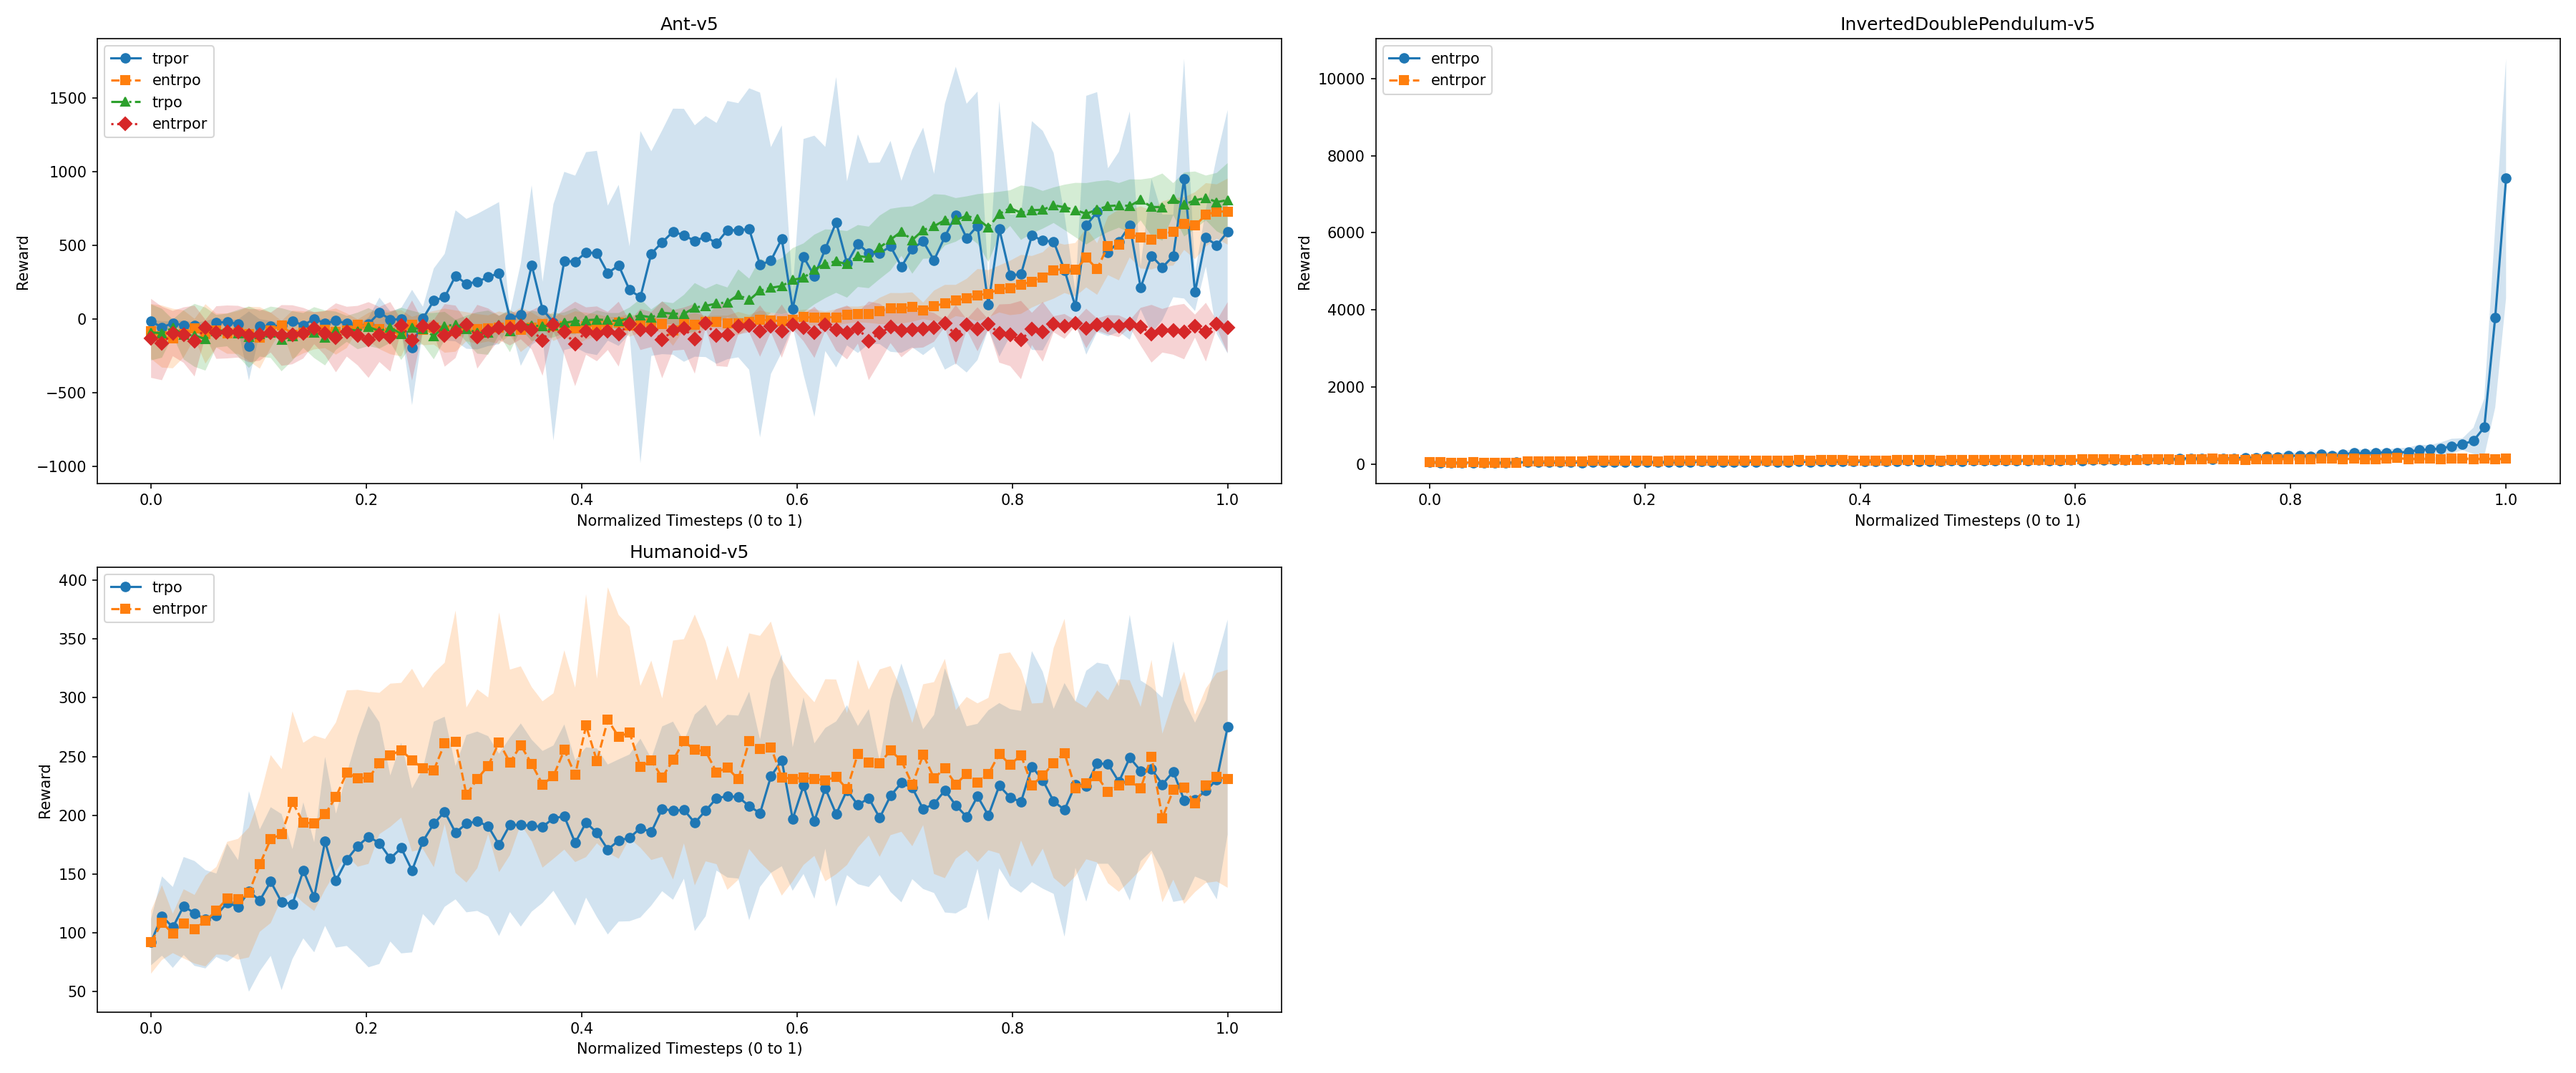
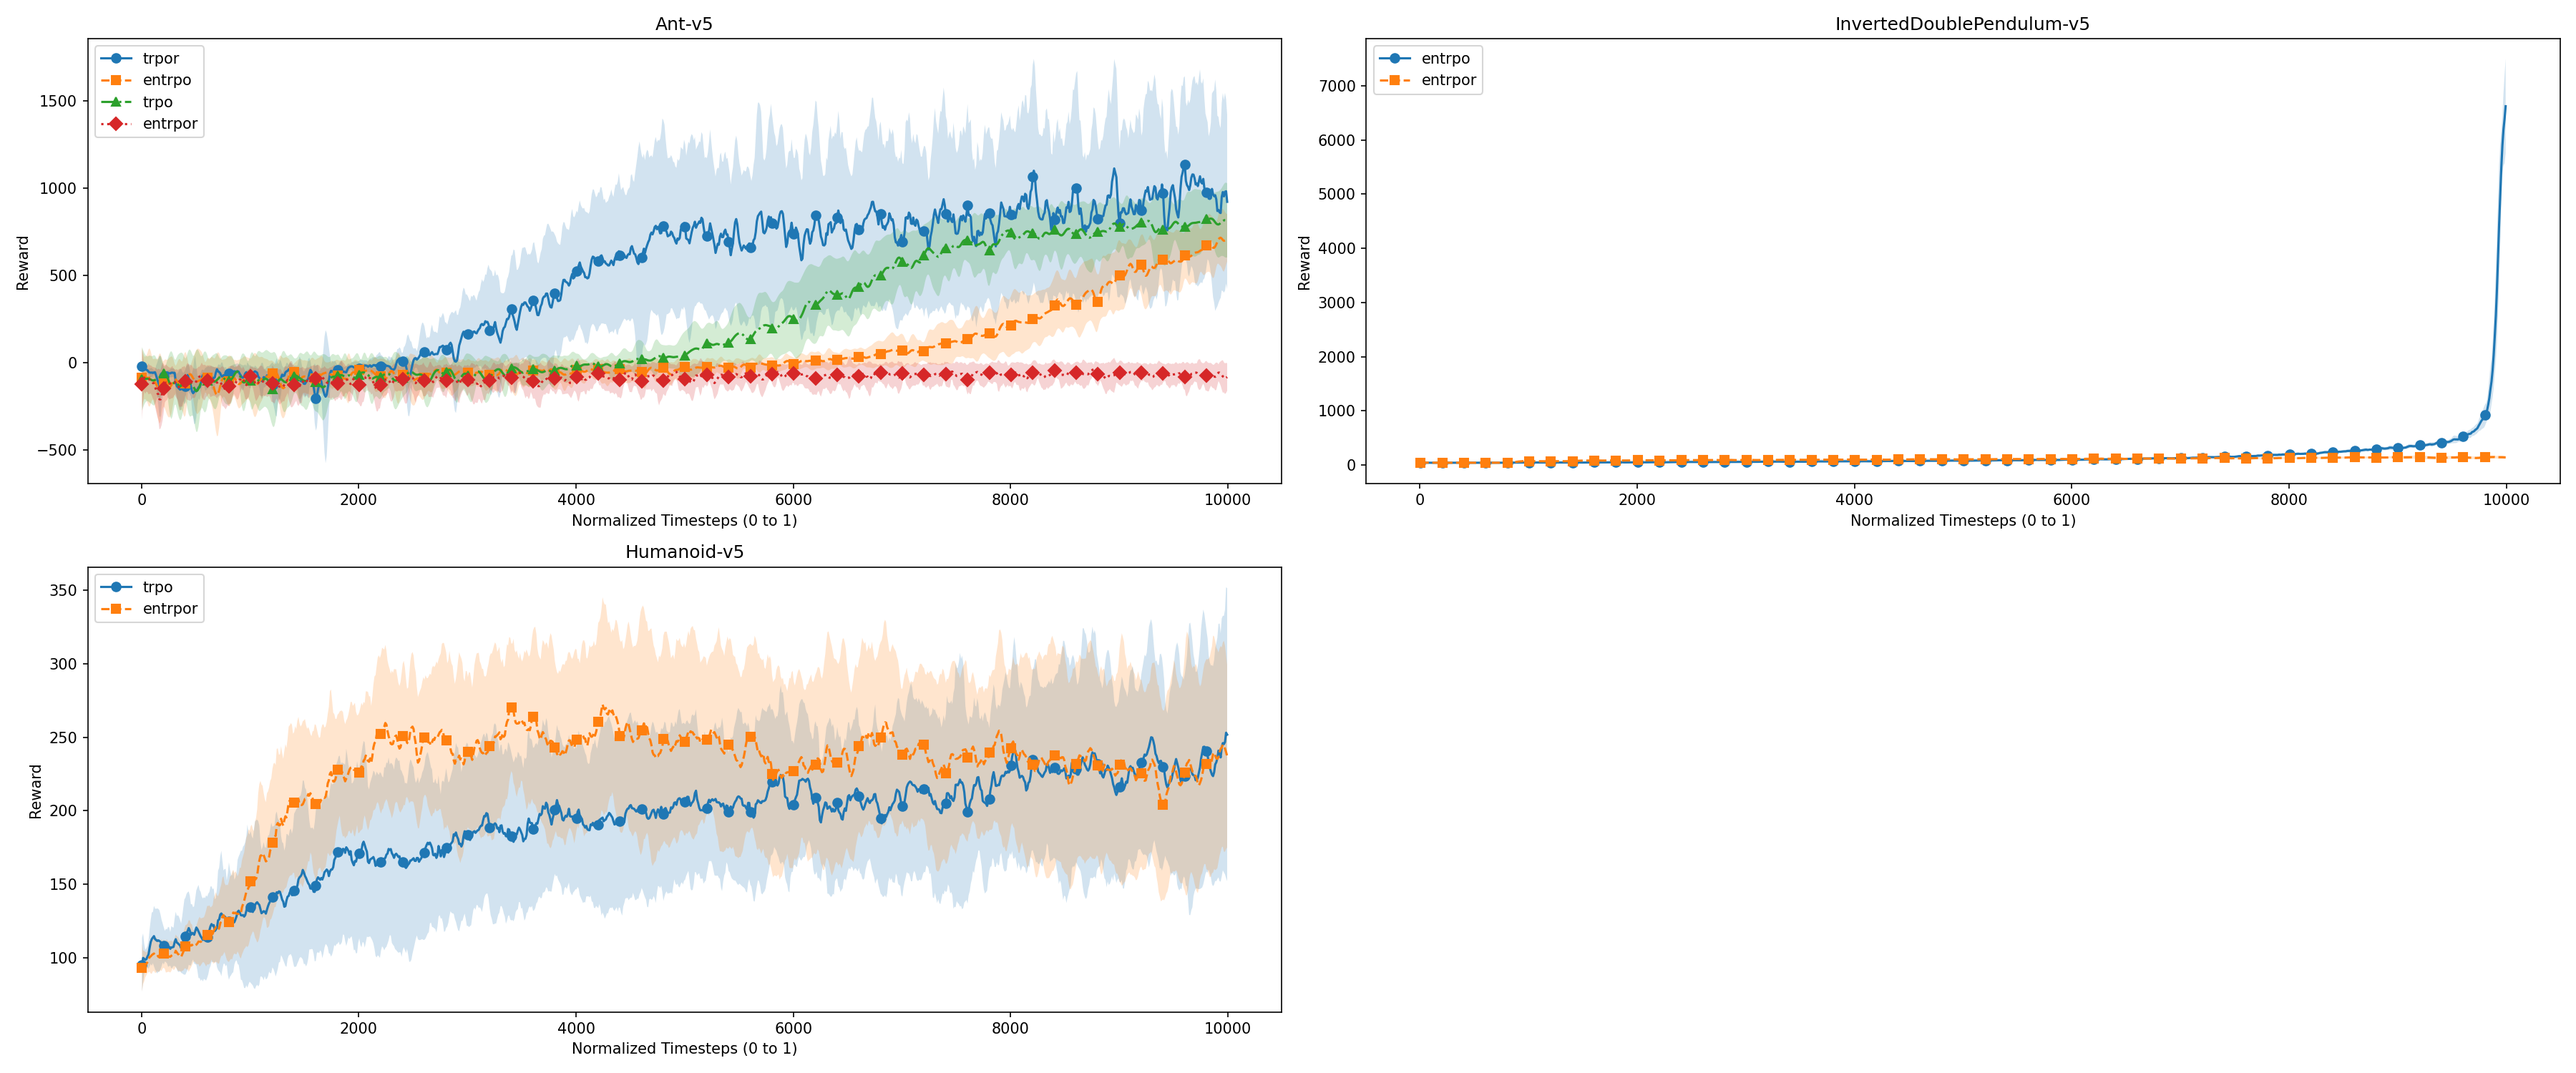
add downsampling and market ffreq

diff --git a/zoo/train_eval_plot.py b/zoo/train_eval_plot.py
@@ -136,13 +136,13 @@ def plot_from_path(env_path, results_dir, filter_envs=None):
   plot_rewards_from_grouped_paths(grouped, results_dir)
 
 
-def resample_to_fixed_points(dataframe, num_points):
-  new_timesteps = np.linspace(dataframe.index.min(), dataframe.index.max(), num=num_points)
-  interpolated_rewards = np.interp(new_timesteps, dataframe.index, dataframe.values)
-  return pd.DataFrame({"Timesteps": new_timesteps, "Reward": interpolated_rewards})
+def resample_to_fixed_points(run_data, num_points, common_timesteps):
+  normalized_timesteps = (run_data.index - run_data.index.min()) / (run_data.index.max() - run_data.index.min())
+  interpolated_rewards = np.interp(common_timesteps, normalized_timesteps, run_data["Reward"])
+  return pd.DataFrame({"Timesteps": common_timesteps, "Reward": interpolated_rewards})
 
 
-def plot_rewards_from_grouped_paths(grouped, results_dir, num_points=100):
+def plot_rewards_from_grouped_paths(grouped, results_dir, num_points=10000):
   os.makedirs(results_dir, exist_ok=True)
 
   n_envs = len(grouped)
@@ -153,10 +153,12 @@ def plot_rewards_from_grouped_paths(grouped, results_dir, num_points=100):
   # Define patterns and markers for accessibility
   line_styles = ["-", "--", "-.", ":"]
   markers = ["o", "s", "^", "D"]
+  max_points = 1000
+  marker_interval = max(1, max_points // 50)  # Ensure no more than 100 markers per line
 
   for ax, (env, paths) in zip(axes, grouped.items()):
     model_aggregated = {}
-    common_timesteps = np.linspace(0, 1, num=num_points)  # Shared resampling scale
+    common_timesteps = np.linspace(0, 1, num=num_points)
 
     for file_path in paths:
       if os.path.exists(file_path):
@@ -164,14 +166,16 @@ def plot_rewards_from_grouped_paths(grouped, results_dir, num_points=100):
         run_data = pd.read_csv(file_path)
         run_data.set_index("Timesteps", inplace=True)
 
-        # Normalize timesteps to [0, 1] and resample
-        normalized_timesteps = (run_data.index - run_data.index.min()) / (run_data.index.max() - run_data.index.min())
-        interpolated_rewards = np.interp(common_timesteps, normalized_timesteps, run_data["Reward"])
-        resampled_data = pd.DataFrame({"Timesteps": common_timesteps, "Reward": interpolated_rewards})
+        resampled_data = resample_to_fixed_points(run_data, num_points, common_timesteps)
+
+        # Downsample the resampled data
+        downsampled_timesteps, downsampled_rewards = downsample_data_with_smoothing(
+          resampled_data.index, resampled_data["Reward"], max_points=1000, window_size=50
+        )
 
         if model not in model_aggregated:
           model_aggregated[model] = []
-        model_aggregated[model].append(resampled_data["Reward"])
+        model_aggregated[model].append(pd.Series(downsampled_rewards, index=downsampled_timesteps))
 
     for idx, (model, rewards_list) in enumerate(model_aggregated.items()):
       if rewards_list:
@@ -184,18 +188,19 @@ def plot_rewards_from_grouped_paths(grouped, results_dir, num_points=100):
         marker = markers[idx % len(markers)]
 
         ax.fill_between(
-          common_timesteps,
+          mean_rewards.index,
           mean_rewards - std_rewards,
           mean_rewards + std_rewards,
           alpha=0.2,
         )
         ax.plot(
-          common_timesteps,
+          mean_rewards.index,
           mean_rewards,
           label=model,
           linewidth=1.5,
           linestyle=line_style,
           marker=marker,
+          markevery=marker_interval,  # Plot markers only at intervals
         )
 
     ax.set_title(env)
